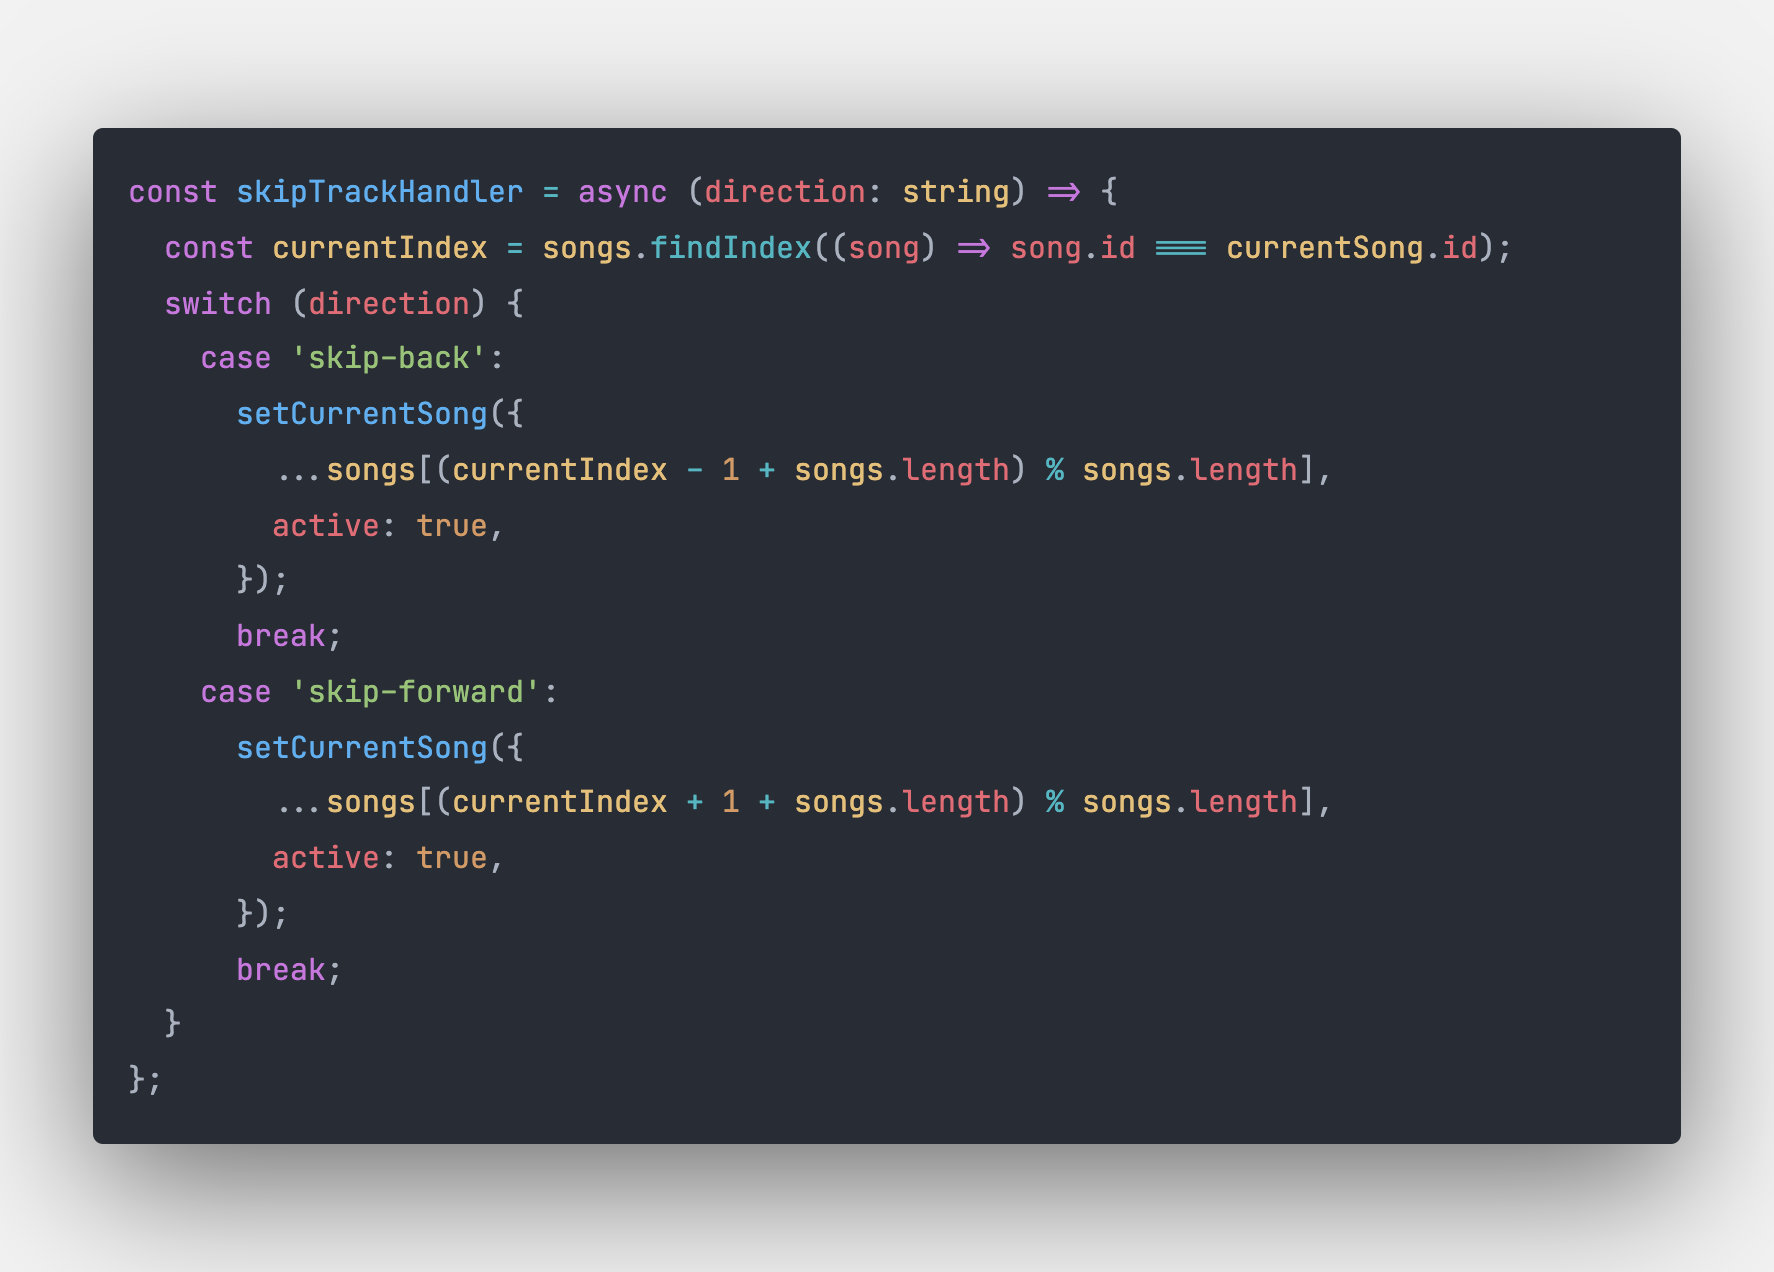
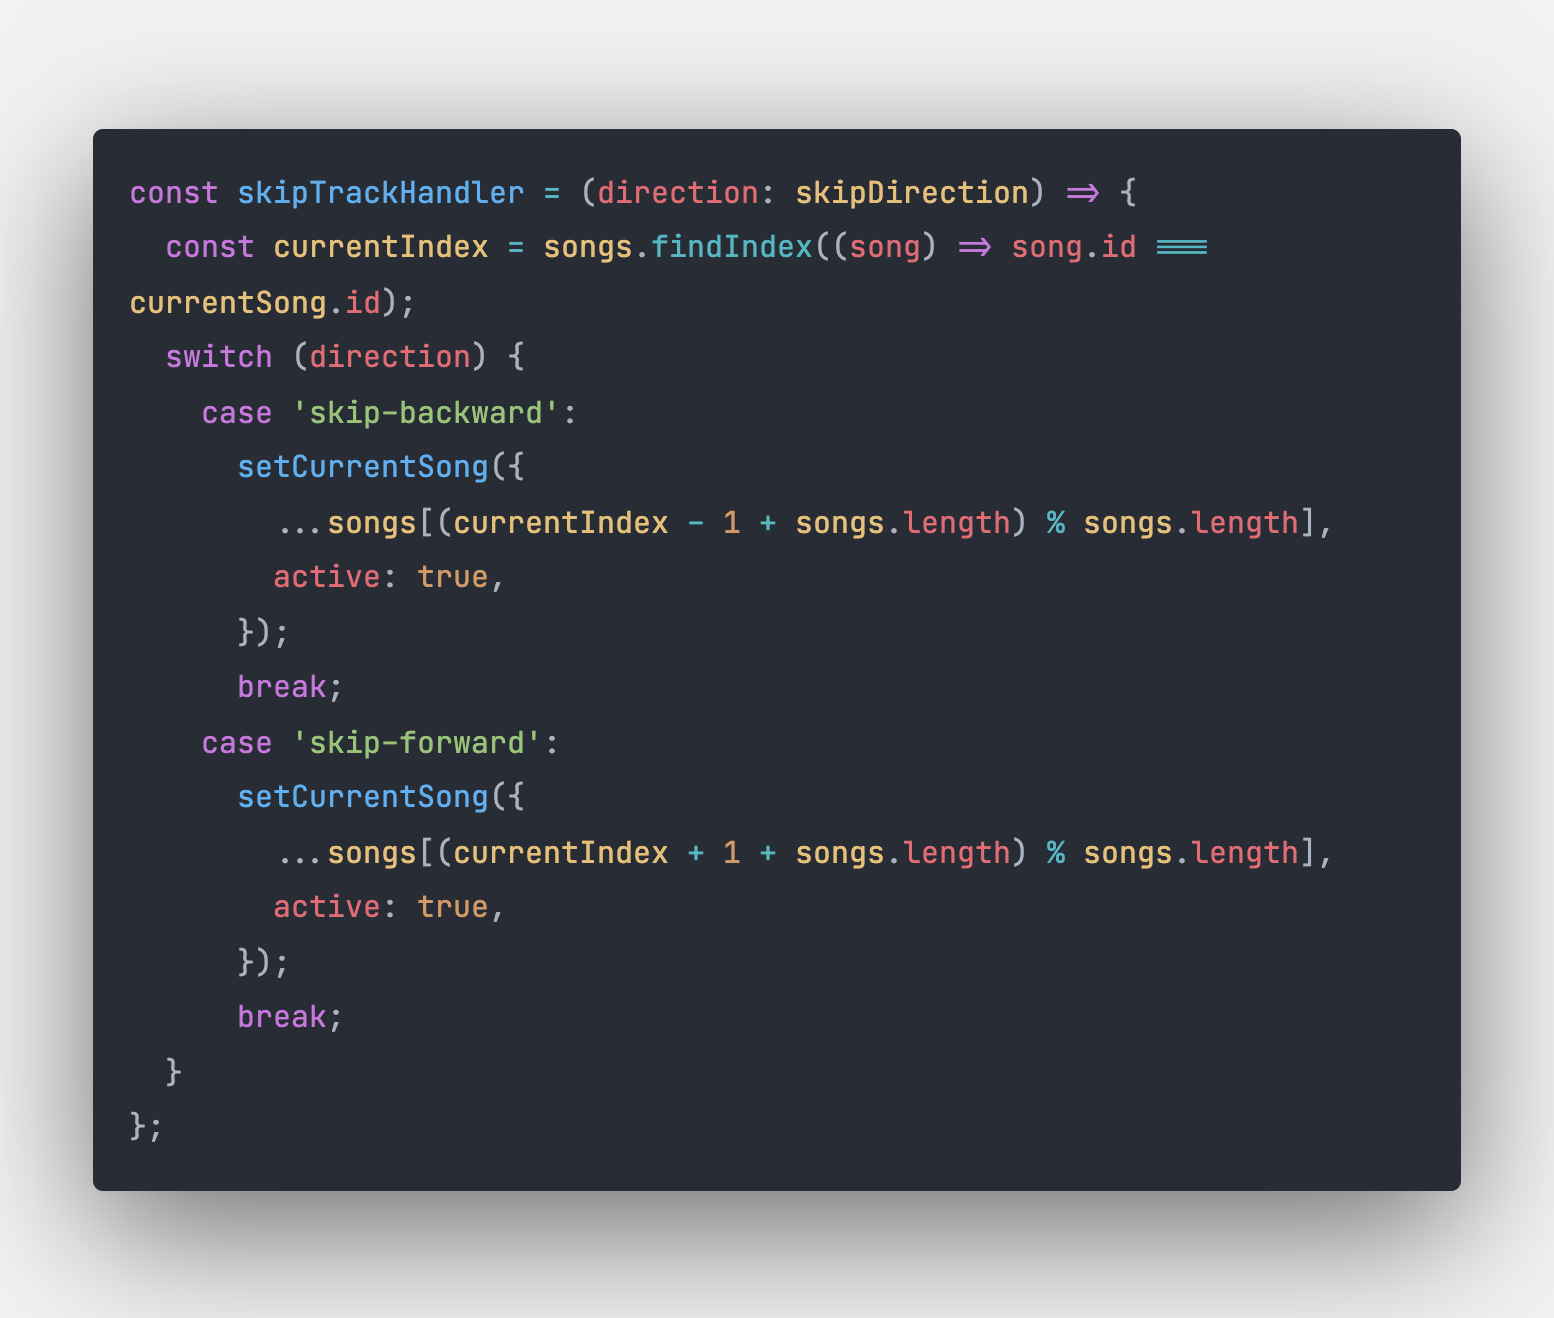
Updated skip track image

Changed region(s): [[0.0309, 0.092, 0.9575, 0.9198], [0.0927, 0.7972, 0.1236, 0.8278]]

diff --git a/src/components/Player/index.tsx b/src/components/Player/index.tsx
@@ -19,6 +19,8 @@ interface PlayerProps {
   audioRef: React.RefObject<HTMLAudioElement>;
 }
 
+type skipDirection = 'skip-backward' | 'skip-forward';
+
 const Player: React.FC<PlayerProps> = ({ audioRef }) => {
   const {
     currentSong,
@@ -48,10 +50,10 @@ const Player: React.FC<PlayerProps> = ({ audioRef }) => {
     setSongInfo({ ...songInfo, currentTime });
   };
 
-  const skipTrackHandler = async (direction: string) => {
+  const skipTrackHandler = (direction: skipDirection) => {
     const currentIndex = songs.findIndex((song) => song.id === currentSong.id);
     switch (direction) {
-      case 'skip-back':
+      case 'skip-backward':
         setCurrentSong({
           ...songs[(currentIndex - 1 + songs.length) % songs.length],
           active: true,
@@ -112,7 +114,7 @@ const Player: React.FC<PlayerProps> = ({ audioRef }) => {
       <PlayControl>
         <FontAwesomeIcon
           onClick={() => {
-            skipTrackHandler('skip-back');
+            skipTrackHandler('skip-backward');
           }}
           className="skip-back"
           size="2x"
